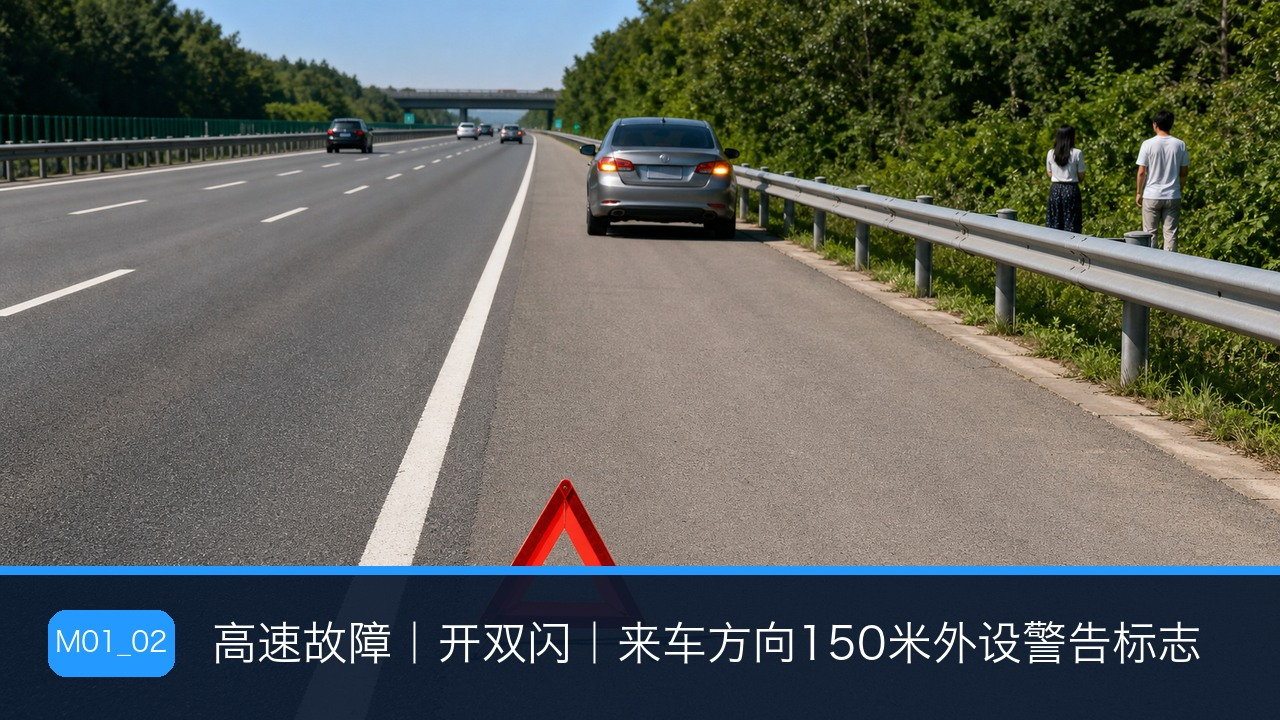
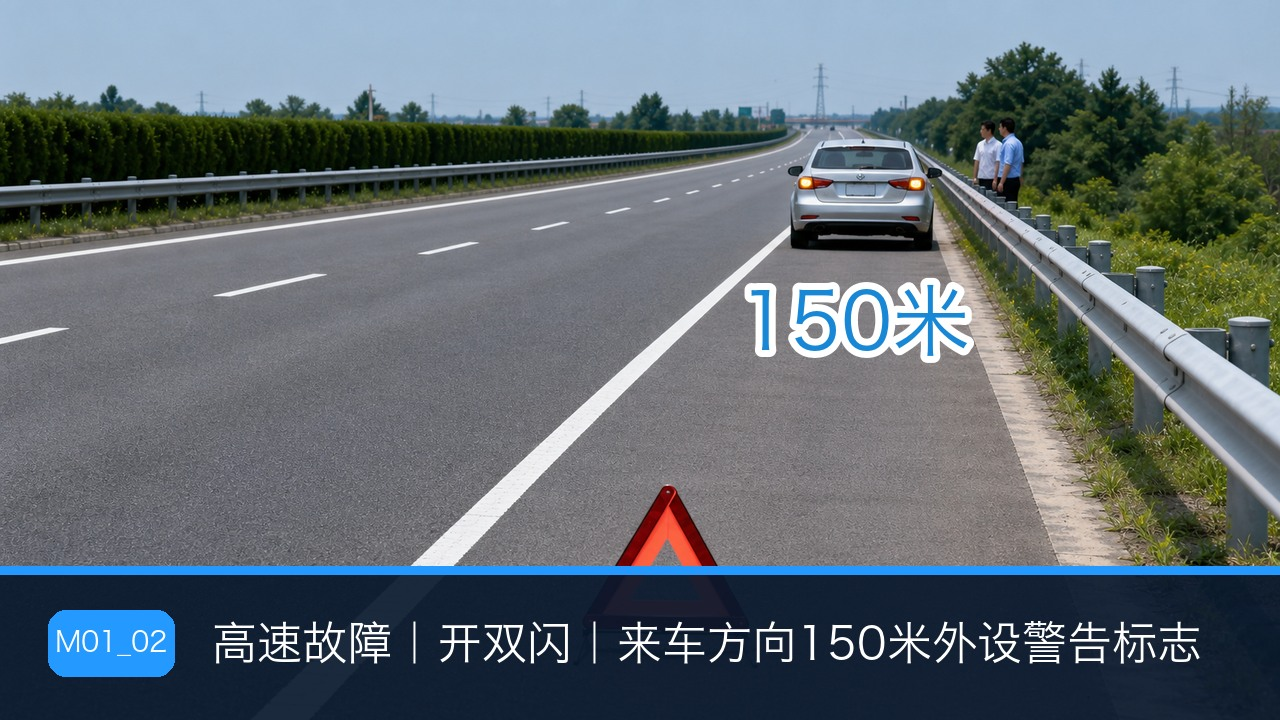
Publish reviewed M01 registration images

diff --git a/scripts/manage_registration_pipeline.py b/scripts/manage_registration_pipeline.py
@@ -316,6 +316,16 @@ def archive_replaced(apply: bool) -> list[dict]:
         if item["sourceImage"] and item["sourceImage"] != item["outputImage"]:
             grouped[item["sourceImage"]].append(item)
 
+    index_path = ARCHIVE_DIR / "archive-index.json"
+    previous_records = {}
+    if index_path.is_file():
+        previous_index = json.loads(index_path.read_text(encoding="utf-8"))
+        previous_records = {
+            item["oldImage"]: item
+            for item in previous_index.get("items", [])
+            if item.get("status") == "archived" and item.get("archivePath")
+        }
+
     plan = []
     for old_image, items in sorted(grouped.items()):
         source = ROOT / "public" / old_image.lstrip("/")
@@ -330,6 +340,21 @@ def archive_replaced(apply: bool) -> list[dict]:
         }
         if apply:
             ARCHIVE_DIR.mkdir(parents=True, exist_ok=True)
+            previous = previous_records.get(old_image)
+            previous_destination = (
+                ROOT / "public" / previous["archivePath"].lstrip("/")
+                if previous
+                else None
+            )
+            if previous_destination and previous_destination.is_file():
+                record["archivePath"] = previous["archivePath"]
+                record["sha256"] = hashlib.sha256(
+                    previous_destination.read_bytes()
+                ).hexdigest()
+                record["status"] = "archived"
+                plan.append(record)
+                continue
+
             destination = ARCHIVE_DIR / source.name
             index = 2
             while destination.exists() and source.exists():
@@ -348,7 +373,6 @@ def archive_replaced(apply: bool) -> list[dict]:
         plan.append(record)
 
     if apply:
-        index_path = ARCHIVE_DIR / "archive-index.json"
         index_path.write_text(
             json.dumps(
                 {

diff --git a/scripts/finalize_registration_batch.py b/scripts/finalize_registration_batch.py
@@ -38,6 +38,20 @@ def fitted_font(draw: ImageDraw.ImageDraw, text: str, max_width: int) -> ImageFo
     return ImageFont.truetype(str(FONT), size=31, index=0)
 
 
+def add_distance_marker(canvas: Image.Image) -> None:
+    draw = ImageDraw.Draw(canvas, "RGBA")
+    marker_font = ImageFont.truetype(str(FONT), size=78, index=0)
+    draw.text(
+        (855, 320),
+        "150米",
+        font=marker_font,
+        anchor="mm",
+        fill=(24, 135, 214, 255),
+        stroke_width=7,
+        stroke_fill=(255, 255, 255, 235),
+    )
+
+
 def finalize(item: dict) -> None:
     source = find_raw(item["code"])
     destination = Path(item["outputPath"])
@@ -51,6 +65,9 @@ def finalize(item: dict) -> None:
             method=Image.Resampling.LANCZOS,
             centering=(0.5, 0.40),
         )
+
+    if item["code"] == "M01_02":
+        add_distance_marker(canvas)
 
     overlay = Image.new("RGBA", OUTPUT_SIZE, (0, 0, 0, 0))
     overlay_draw = ImageDraw.Draw(overlay)

diff --git a/docs/image-review-standards.md b/docs/image-review-standards.md
@@ -1,0 +1,58 @@
+# 题库图片审图标准
+
+本标准适用于科目一、科目四全部题库图片，以及新图、重做图和批量替换图。审图以“准确表达考点，并能在手机上快速看懂”为目标。
+
+## 一、主题必须突出
+
+- 题目主题所描述的人、车、道路、标志、动作或结果，必须是画面中最明显的主体，或构成整张图最显著的表意。
+- 用户应能在约 3 秒内说出画面表达的核心内容，不依赖题干补充说明，也不需要在画面中寻找关键对象。
+- 构图、景别、光线、对比度和主体大小都应服务于考点。无关人物、车辆、建筑和装饰不得抢占视觉中心。
+- 一张图优先表达一个核心考点。若画面同时出现多个对象，必须通过位置、大小、视线或动作关系明确主次。
+
+以下情况不通过：
+
+- 主题对象只占画面很小的局部。
+- 背景或无关对象比考点更醒目。
+- 画面看起来合理，但第一眼无法判断它与题目考点的关系。
+- 需要阅读图片中的小字、寻找角落细节或依靠题干猜测，才能理解图片。
+
+## 二、必须适合手机尺寸观看
+
+- 审图除查看原图外，必须同时查看约 360px 宽的手机预览；不得只根据电脑大图判断。
+- 答题或判断所依赖的关键信息必须在手机预览中仍然清晰，包括车辆身份、人物动作、车道位置、道路标线、交通标志、灯光状态、距离数字和关键中文。
+- 如果答案依据位于画面局部，应通过放大主体、简化背景、调整景别或重构构图，使用户无需缩放即可辨认。
+- 精确数字和必要文字使用确定性叠加，字号、颜色和对比度必须保证手机端一眼可读。
+
+以下情况不通过：
+
+- 必须放大图片才能看到答案依据。
+- 关键车辆、标志、车灯、证件或人物动作在手机上无法区分。
+- 关键信息依赖过细的线条、过小的文字、过弱的明暗差异或容易混淆的局部细节。
+- 电脑端看起来正确，但缩小后主题消失或判断依据丢失。
+
+## 三、内容必须准确
+
+- 逐字核对题干、答案和解析，确认人物身份、车型、车辆数量、行驶方向、车道关系、道路类型、标志位置、距离和动作均与题意一致。
+- 中国道路场景遵守右侧通行；车道宽度、应急车道位置、标线和车辆占道关系必须合理。
+- 不得为了视觉效果增加会改变答案、造成歧义或与法规相冲突的元素。
+- 图片中的中文、数字、道路标识和划线必须准确；生成模型无法可靠完成的内容应后期确定性制作。
+
+## 四、固定审图顺序
+
+1. **题意核对**：逐项列出题干中的人、车、道路、动作、数字和判断依据。
+2. **3 秒主题测试**：第一眼能否看出核心考点，主题是否为最显著内容。
+3. **手机预览测试**：缩至约 360px 宽，不放大检查关键判断信息。
+4. **交通准确性检查**：核对车型、方向、车道、标线、距离、灯光和标志。
+5. **干扰项检查**：确认没有抢主题、改变答案或造成误解的内容。
+
+只有五项全部通过，图片才能标记为 `approved`；任意一项不通过，标记为 `redo` 并写明具体问题。
+
+## 五、审图反馈格式
+
+反馈必须说明“哪张图、哪个关键点、手机上哪里看不清或表意哪里不准”，例如：
+
+```text
+M01_01：临时牌照占比太小，手机上无法看清，需把临牌作为画面主体。
+M01_02：150米是判断依据，手机上必须直接可见，不能依赖细小透视距离。
+B01_10：无法一眼确认是哪辆车需要充电，需突出目标车辆和充电关系。
+```

diff --git a/docs/registration-image-production-pipeline.md b/docs/registration-image-production-pipeline.md
@@ -38,6 +38,8 @@ python scripts/manage_registration_pipeline.py archive --apply
 
 每批图片完成后，`finalize_registration_batch.py` 会自动生成三列总览图。总览图直接在 Codex 对话中提供，不在题库页面增加审图功能。
 
+审图统一遵循 [`docs/image-review-standards.md`](image-review-standards.md)。重点先检查主题是否是画面最显著内容，再检查约 360px 宽的手机预览；任何必须放大才能看清的答题或判断依据都不能通过。
+
 反馈时只需按总览图中的题号说明，例如：
 
 ```text

diff --git a/docs/special-topic-production-pipeline.md b/docs/special-topic-production-pipeline.md
@@ -25,6 +25,7 @@
 
 - 默认每批 8 题。
 - 一次只生成一个批次，不把全部 236 条长提示词载入任务上下文。
+- 所有图片统一遵循 [`docs/image-review-standards.md`](image-review-standards.md)：主题必须是画面最显著内容，并通过约 360px 宽的手机预览测试。
 - 每批顺序：
   1. 从清单提取 `pending` 或 `redo`。
   2. 逐题生成并保存到固定路径。
